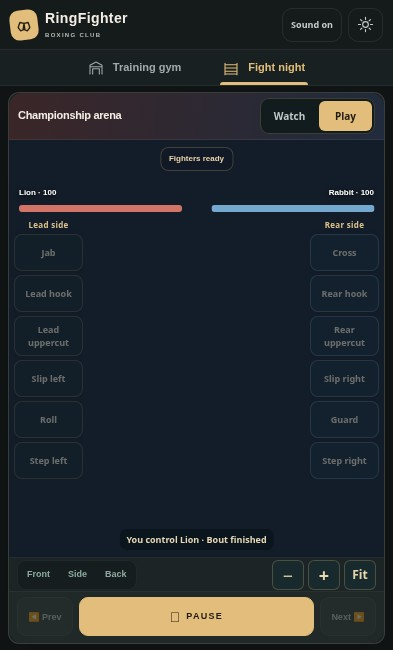
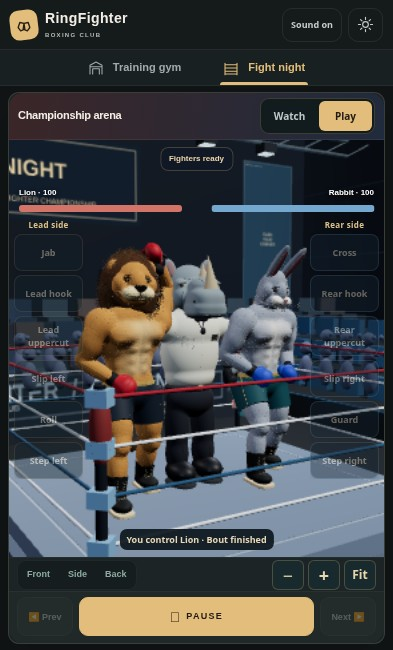
test: capture populated fight and equipment after responsive layout settles

diff --git a/qa/r86/comparison.html b/qa/r86/comparison.html
@@ -1,1 +1,1 @@
-<!doctype html><meta charset="utf-8"><meta name="viewport" content="width=device-width"><title>RingFighter R86 comparison</title><style>body{background:#172022;color:#eee;font:16px system-ui;max-width:1100px;margin:24px auto;padding:12px}h1{font-size:25px}img{max-width:100%;height:auto}.pair{display:grid;grid-template-columns:1fr 1fr;gap:12px}a{color:#e5c681}figure{margin:12px 0}</style><h1>R86: Super combinations, movement and groom/material polish</h1><p>Actual app renders. Baseline 7a7b738 → runtime 88227e3. Same lighting, camera and pose; shadows on, Chromium software WebGL. Hardware phone performance remains unverified.</p><p><a href="../../index.html">Open app</a> · <a href="README.md">Commands and results</a></p><h2>Lion face</h2><div class="pair"><figure><figcaption>Before</figcaption><a href="images/lion-face-before.jpg"><img src="images/lion-face-before.jpg" alt="lion before" loading="lazy"></a></figure><figure><figcaption>After</figcaption><a href="images/lion-face-final.jpg"><img src="images/lion-face-final.jpg" alt="lion final" loading="lazy"></a></figure></div><h2>Lion pose comparison</h2><p>Before left; after right. Front, face, profile, rear, jab, uppercut.</p><a href="images/lion-contact-sheet.jpg"><img src="images/lion-contact-sheet.jpg" alt="lion matched six-view comparison" loading="lazy"></a><h2>Rabbit face</h2><div class="pair"><figure><figcaption>Before</figcaption><a href="images/rabbit-face-before.jpg"><img src="images/rabbit-face-before.jpg" alt="rabbit before" loading="lazy"></a></figure><figure><figcaption>After</figcaption><a href="images/rabbit-face-final.jpg"><img src="images/rabbit-face-final.jpg" alt="rabbit final" loading="lazy"></a></figure></div><h2>Rabbit pose comparison</h2><p>Before left; after right. Front, face, profile, rear, jab, uppercut.</p><a href="images/rabbit-contact-sheet.jpg"><img src="images/rabbit-contact-sheet.jpg" alt="rabbit matched six-view comparison" loading="lazy"></a><h2>Training controls</h2><div class="pair"><img src="images/speed-drills.jpg" alt="speed-drills" loading="lazy"><img src="images/super-combo.jpg" alt="super-combo" loading="lazy"></div>
+<!doctype html><meta charset="utf-8"><meta name="viewport" content="width=device-width"><title>RingFighter R86 comparison</title><style>body{background:#172022;color:#eee;font:16px system-ui;max-width:1100px;margin:24px auto;padding:12px}h1{font-size:25px}img{max-width:100%;height:auto}.pair{display:grid;grid-template-columns:1fr 1fr;gap:12px}a{color:#e5c681}figure{margin:12px 0}</style><h1>R86: Super combinations, movement and groom/material polish</h1><p>Actual app renders. Baseline 7a7b738 → runtime 88227e3. Same lighting, camera and pose; shadows on, Chromium software WebGL. Hardware phone performance remains unverified.</p><p><a href="../../index.html">Open app</a> · <a href="README.md">Commands and results</a></p><h2>Lion face</h2><div class="pair"><figure><figcaption>Before</figcaption><a href="images/lion-face-before.jpg"><img src="images/lion-face-before.jpg" alt="lion before" loading="lazy"></a></figure><figure><figcaption>After</figcaption><a href="images/lion-face-final.jpg"><img src="images/lion-face-final.jpg" alt="lion final" loading="lazy"></a></figure></div><h2>Lion pose comparison</h2><p>Before left; after right. Front, face, profile, rear, jab, uppercut.</p><a href="images/lion-contact-sheet.jpg"><img src="images/lion-contact-sheet.jpg" alt="lion matched six-view comparison" loading="lazy"></a><h2>Rabbit face</h2><div class="pair"><figure><figcaption>Before</figcaption><a href="images/rabbit-face-before.jpg"><img src="images/rabbit-face-before.jpg" alt="rabbit before" loading="lazy"></a></figure><figure><figcaption>After</figcaption><a href="images/rabbit-face-final.jpg"><img src="images/rabbit-face-final.jpg" alt="rabbit final" loading="lazy"></a></figure></div><h2>Rabbit pose comparison</h2><p>Before left; after right. Front, face, profile, rear, jab, uppercut.</p><a href="images/rabbit-contact-sheet.jpg"><img src="images/rabbit-contact-sheet.jpg" alt="rabbit matched six-view comparison" loading="lazy"></a><h2>Training controls</h2><div class="pair"><img src="images/speed-drills.jpg" alt="speed-drills" loading="lazy"><img src="images/super-combo.jpg" alt="super-combo" loading="lazy"></div><h2>Full fight scene</h2><p>Actual rendered result pose after manual player-versus-AI checks.</p><img src="images/fight.jpg" alt="Rendered fight scene with both boxers and referee" loading="lazy">

diff --git a/qa/r86/README.md b/qa/r86/README.md
@@ -53,7 +53,7 @@ QA_OUT=/tmp/r86-after NODE_PATH=/tmp/fit-tools/node_modules node qa/r86/visual.c
 APP_ROOT=/path/to/baseline QA_OUT=/tmp/r86-before NODE_PATH=/tmp/fit-tools/node_modules node qa/r86/visual.cjs
 QA_OUT=/tmp/r86-combos NODE_PATH=/tmp/fit-tools/node_modules node qa/r86/combos.cjs
 QA_VIEWPORTS='[[393,650]]' QA_OUT=/tmp/r86-camera NODE_PATH=/tmp/fit-tools/node_modules node qa/r85/browser.cjs
-QA_OUT=/tmp/r86-play NODE_PATH=/tmp/fit-tools/node_modules node qa/r85/play.cjs
+QA_OUT=/tmp/r86-play NODE_PATH=/tmp/fit-tools/node_modules node qa/r86/play.cjs
 for test in tests/*.test.cjs; do node "$test" || exit 1; done
 ```
 
@@ -61,3 +61,8 @@ for test in tests/*.test.cjs; do node "$test" || exit 1; done
 using the existing M0 instrumentation and bypass CSP solely for Playwright's
 evaluation. Production CSP is unchanged. The contact check advances actual
 arena simulation; it does not add hits from button clicks.
+
+The R86 capture harness waits for the responsive layout to finish resizing
+before rendering its final fight/control screenshots. Pausing RAF for QA had
+otherwise allowed a post-render resize to clear the captured canvas. This is a
+harness correction; production layout and animation behavior are unchanged.
